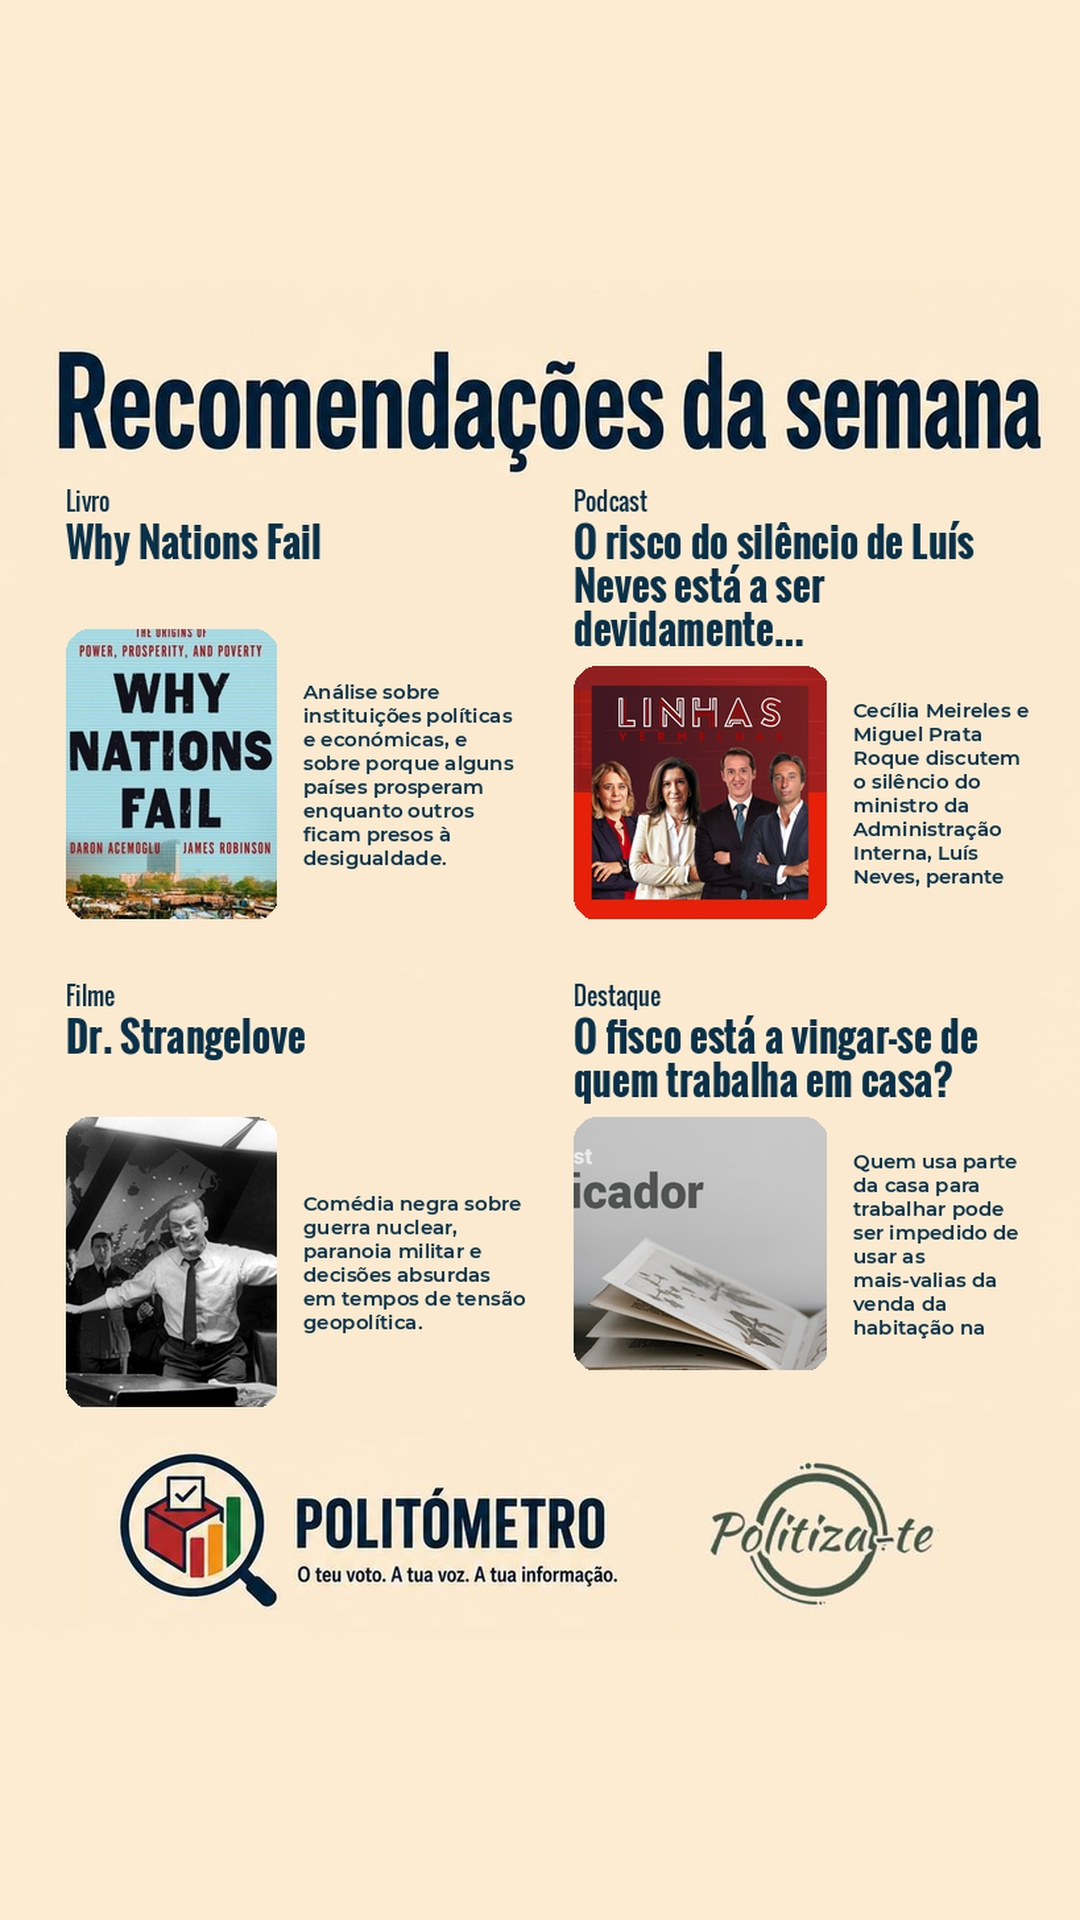
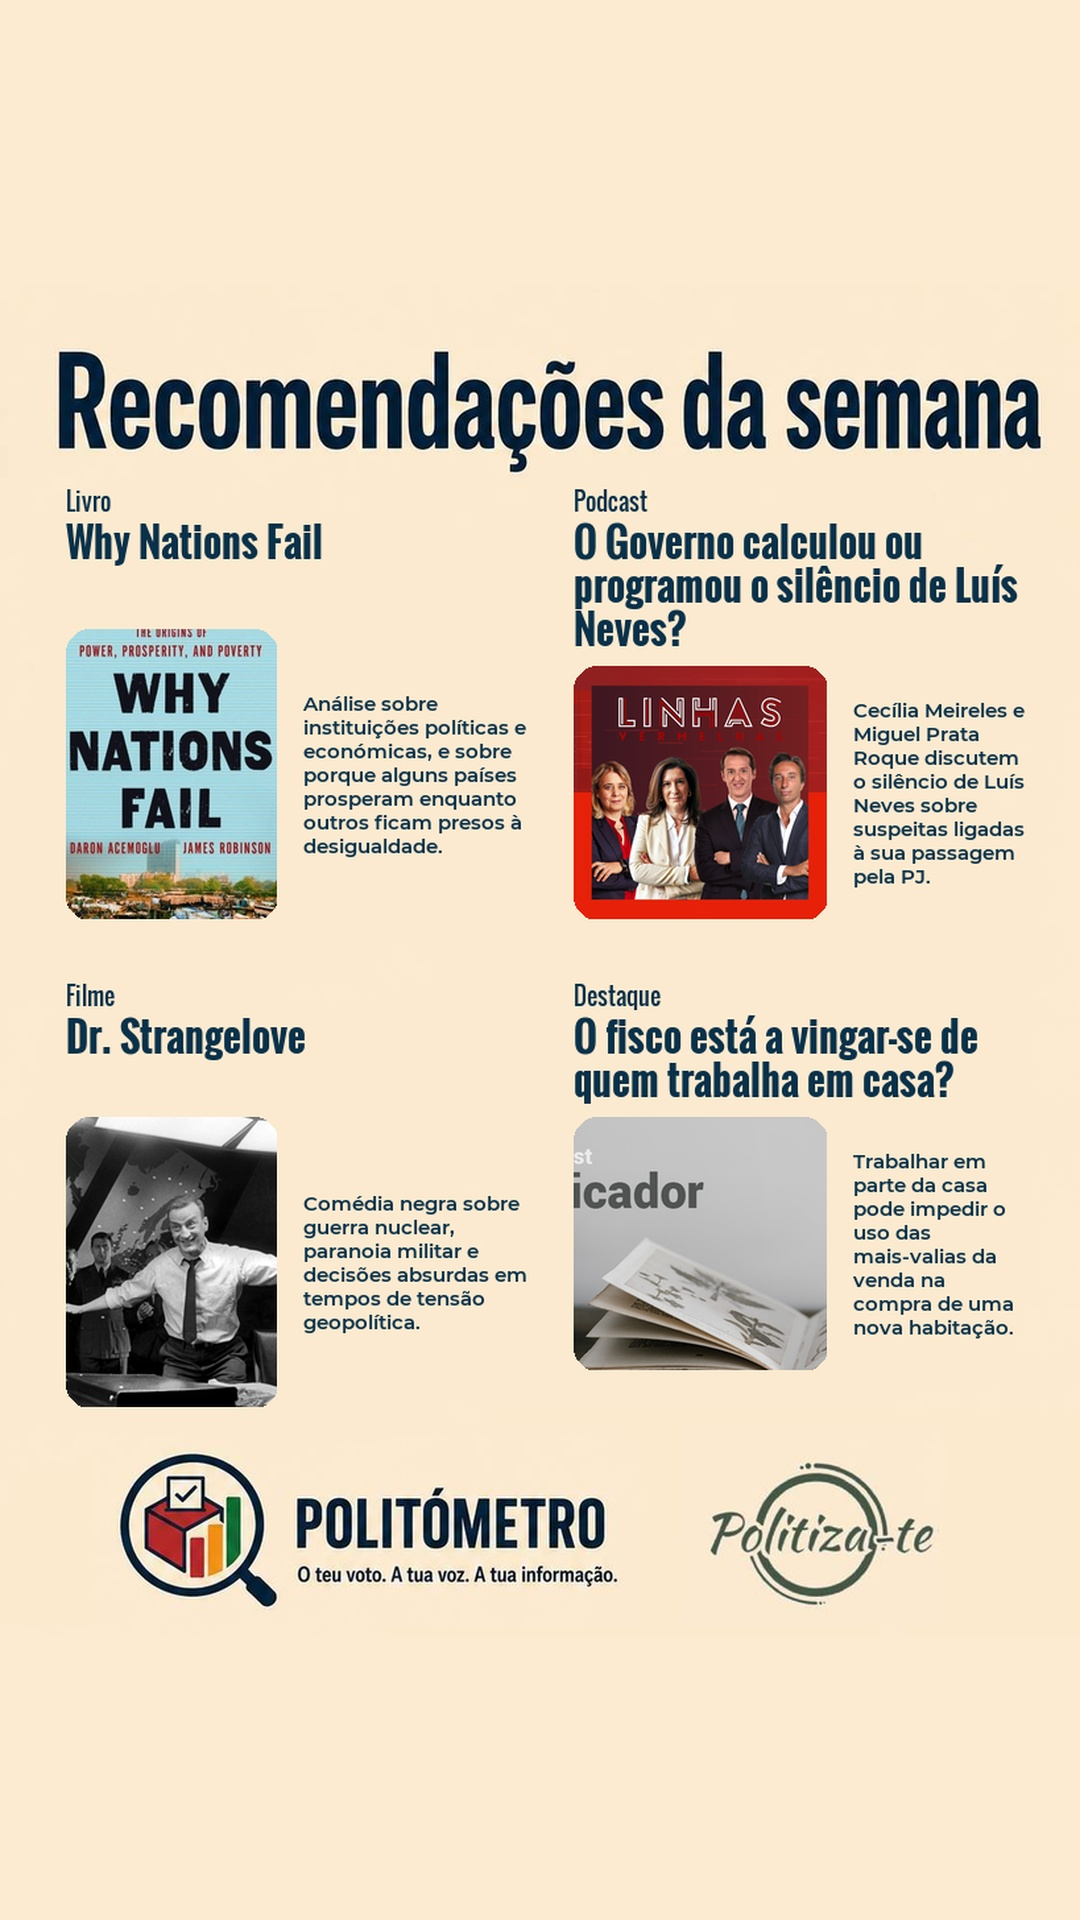
Fix truncated weekly recommendation copy

diff --git a/scripts/generate_post.py b/scripts/generate_post.py
@@ -612,6 +612,32 @@ def wrap_text(draw, text, font, max_width):
     return lines
 
 
+def _display_title(item):
+    """Return an optional concise editorial title without changing identity."""
+    editorial_title = re.sub(
+        r"\s+", " ", str(item.get("editorialTitle", ""))
+    ).strip()
+    canonical_title = re.sub(
+        r"\s+", " ", str(item.get("title", ""))
+    ).strip()
+    return editorial_title or canonical_title
+
+
+def _normalise_rendered_text(value):
+    return re.sub(r"\s+", " ", str(value or "")).strip()
+
+
+def _require_complete_render(original, lines, qkey, field_name):
+    """Fail review generation instead of silently dropping editorial copy."""
+    expected = _normalise_rendered_text(original)
+    rendered = _normalise_rendered_text(" ".join(lines))
+    if rendered != expected:
+        raise RuntimeError(
+            f"{qkey.upper()} {field_name} não cabe integralmente na imagem. "
+            "Define uma versão editorial mais curta; o texto não será cortado."
+        )
+
+
 def _sanitize_description(description, title=""):
     import html
     text = html.unescape(str(description or ""))
@@ -1361,10 +1387,7 @@ def generate_production_post():
         )
         
         # 2. Draw Title centered across full width (700px) with larger font (40px -> 26px)
-        raw_title = item.get("title", "")
-        if len(raw_title) > 65:
-            raw_title = _ellipsize(raw_title, 65)
-        item["title"] = raw_title
+        raw_title = _display_title(item)
 
         fitted_title_font, lines, title_spacing = _fit_text_lines(
             draw,
@@ -1375,6 +1398,7 @@ def generate_production_post():
             700,
             3,
         )
+        _require_complete_render(raw_title, lines, qkey, "título")
         curr_y = 320
         for line in lines:
             bbox = fitted_title_font.getbbox(line)
@@ -1445,13 +1469,8 @@ def generate_production_post():
             
             # Wrap title
             tx, ty = config["title_pos"]
-            title_max_lines = 3 if (qkey in ["q2", "q3", "q4", "w1", "w2"] or len(item.get("title", "")) > 55) else 2
-            raw_title = item.get("title", "")
-            if len(raw_title) > 55 and "empresa de construção" in raw_title.lower():
-                raw_title = re.sub(r"burlar dezenas de famílias com empresa de construção", "burla na construção", raw_title, flags=re.I)
-            elif len(raw_title) > 65:
-                raw_title = _ellipsize(raw_title, 65)
-            item["title"] = raw_title
+            raw_title = _display_title(item)
+            title_max_lines = 3 if (qkey in ["q2", "q3", "q4", "w1", "w2"] or len(raw_title) > 55) else 2
 
             max_title_width = 700 if qkey in ["w1", "w2"] else 350
             fitted_title_font, lines, title_spacing = _fit_text_lines(
@@ -1463,6 +1482,7 @@ def generate_production_post():
                 max_title_width,
                 title_max_lines,
             )
+            _require_complete_render(raw_title, lines, qkey, "título")
             title_lines_map[qkey] = lines
             
             # Draw title
@@ -1545,6 +1565,13 @@ def generate_production_post():
                 clean_desc,
                 DESCRIPTION_CHAR_LIMITS.get(qkey, 240),
             )
+            if _normalise_rendered_text(description) != _normalise_rendered_text(
+                clean_desc
+            ):
+                raise RuntimeError(
+                    f"{qkey.upper()} descrição excede o limite editorial. "
+                    "Define uma descrição mais curta; o texto não será cortado."
+                )
             max_lines = min(
                 DESCRIPTION_LINE_LIMITS.get(qkey, 8),
                 max(1, cover_h // 18),
@@ -1567,6 +1594,12 @@ def generate_production_post():
                 plan["description"],
                 plan["desc_w"],
                 plan["max_lines"],
+            )
+            _require_complete_render(
+                plan["description"],
+                desc_lines,
+                plan["qkey"],
+                "descrição",
             )
             text_block_h = len(desc_lines[: plan["max_lines"]]) * spacing
             dy = plan["cover_y"] + max(0, (plan["cover_h"] - text_block_h) // 2)

diff --git a/scripts/tests/test_pipeline.py b/scripts/tests/test_pipeline.py
@@ -472,6 +472,27 @@ class RecoveryWindowTests(unittest.TestCase):
 
 
 class PostQualityGateTests(unittest.TestCase):
+    def test_display_title_prefers_concise_editorial_copy(self):
+        item = {
+            "title": "Título canónico muito extenso da fonte",
+            "editorialTitle": "Título editorial curto",
+        }
+
+        self.assertEqual(
+            generate_post._display_title(item),
+            "Título editorial curto",
+        )
+        self.assertEqual(item["title"], "Título canónico muito extenso da fonte")
+
+    def test_render_gate_rejects_silently_truncated_copy(self):
+        with self.assertRaisesRegex(RuntimeError, "não cabe integralmente"):
+            generate_post._require_complete_render(
+                "A ideia completa não pode desaparecer",
+                ["A ideia completa"],
+                "q2",
+                "título",
+            )
+
     def test_compact_text_keeps_largest_complete_prefix_without_ellipsis(self):
         text = (
             "Primeira frase informativa. "
